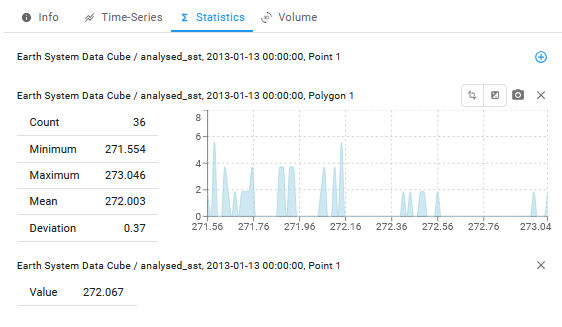
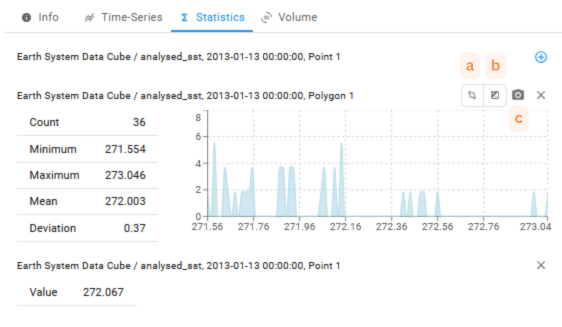
add time series features

diff --git a/docs/user_guide/analyse.md b/docs/user_guide/analyse.md
@@ -20,38 +20,40 @@ The Viewer provides the ability to extract information from variables at specifi
 
 ### Time-Series
 
-When adding a new place to the map, a time series will automatically be extracted and displayed by default. If the place already exists, simply select it and use the _graph_-icon next to the Variables drop-down menu. To remove a place from a graph, click the `-`-icon next to the place listed below the graph. The color of the places corresponds to the color of the graph in the time series. You can find the coordinates of the places visualized in the time series beneath the graphs.
+When adding a new place to the map, a time series will automatically be extracted and displayed by default. To display a time series for an already existing place, simply select it and use the _graph_-icon next to the variables drop-down menu.
+
+To remove a place from a graph, click the `-`-icon next to the place listed below the graph. The color of a place corresponds to the color in the time series graphs. The coordinates of the places visualized in the time series can be found beneath the graphs.
 
 ![Time Series Graph](../assets/images/viewer/analysis_timeseries_graphs.png)
 
 There are multiple options to explore the graph:
 
-- Adjust the time range to focus on a specific period of interest. This applies to time series of different variables within a dataset
-- Display data with points, lines, or bars. For polygons or circles, you can also add the standard deviation to the graph
-- Hover over the graph to view detailed information for specific time steps via a popup info box
-- Zoom into the graph freely by pressing the `Ctrl`-key
-- Set a fixed y-scale for the graph
-- Reset everything back to the full scale
-- Copy a snapshot a time series to clipboard
+- Adjust the time range to focus on a specific period of interest. This applies to time series of different variables within a dataset (a)
+- Reset everything back to the full scale (b)
+- Zoom into the graph freely by pressing the `Ctrl`-key (c)
+- Set a fixed y-scale for the graph (d)
+- Hover over the graph to view detailed information for specific time steps via a popup info box (e)
+- Display data with points, lines, or bars. For polygons or circles, you can also add the standard deviation to the graph (f)
+- Copy a snapshot a time series to clipboard (g)
 
 #### Export time series
 
-Export the time series using the option in the header at the top right. You have the option to export the time series, the geometries of the Places, or both.
+Export the time series using the option in the header at the top right. You have the option to export the time series, the geometries of the places, or both.
 
 ![Export](../assets/images/viewer/analysis_timeseries_export.png)
 
 ### Statistics
 
-Compute and display basic statistics for the currently selected variable, selected timestamp, and selected place. To obtain the statistics select a place and compute by using the $\Sigma$ -icon next to the Variables drop-down menu or use the `+`-icon under the Statistics Tab in the sidebar.
+Compute and display basic statistics for the currently selected variable, selected timestamp, and selected place. To obtain the statistics select a place and compute by using the $\Sigma$ -icon next to the variables drop-down menu or use the `+`-icon under the Statistics Tab in the sidebar.
 
 ![Statistics](../assets/images/viewer/analysis_statistics.png)
 
 If the place is an area:
 
 - Statistics include minimum, maximum, mean, standard deviation, and a histogram
-- Adjust the x-range of the histogram
-- Add the standard deviation to the histogram
-- Copy a snapshot of the statistics to clipboard
+- Adjust the x-range of the histogram (a)
+- Add the standard deviation to the histogram (b)
+- Copy a snapshot of the statistics to clipboard (c)
 
 For point places:
 
@@ -131,7 +133,7 @@ To **exit** Compare Mode: use the button on the left
 ![Player](../assets/images/viewer/analysis_player_light.png){: class="light-image" }
 ![Player](../assets/images/viewer/analysis_player_dark.png){: class="dark-image" }
 
-Use the showen features of the Viewer to navigate through the time steps of a variable. Select a specific date in the calendar view, move through the dataset time step by time step, jump to the beginning or end of the dataset, move the slider on the bar to select a time step, or start the player.
+Use the shown features of the Viewer to navigate through the time steps of a variable. Select a specific date in the calendar view, move through the dataset time step by time step, jump to the beginning or end of the dataset, move the slider on the bar to select a time step, or start the player.
 
 ### The Player
 
@@ -143,11 +145,11 @@ Use the player to auto-step through the variable of a dataset. The interval can 
 
 ## Places
 
-**Places** provide a spatial reference for extracting statistical values and time series data. They can be represented as either `points` or `polygons/circles`. Places are organized into **groups** which hold individial places.
+**Places** provide a spatial reference for extracting statistical values and time series data. They can be represented as either `points` or `polygons/circles` and are organized into **groups** which hold individial places.
 
 ![Places](../assets/images/viewer/analysis_places.png)
 
-The Viewer offers a variety of features (such as adding, removing, and styling) for working with Places to obtain statistical information. The following sections will explain the available features.
+The Viewer offers a variety of features for working with Places (such as adding, removing, and styling) to obtain statistical information. The following sections will explain the available features.
 
 ![Places](../assets/images/viewer/analysis_places_light.png){: class="light-image" }
 ![Places](../assets/images/viewer/analysis_places_dark.png){: class="dark-image" }
@@ -158,13 +160,13 @@ New Places can be **created** in the Viewer using the buttons in the header, wit
 
 ### Import
 
-Already created places can also be **imported**. The allowed formats are `text/csv`, `GeoJSON` and `WKT`. When importing a CSV table or a GeoJSON object, user can specify the time column name or time property. If given, time values are expected to be UTC and use ISO format.
+Externally created places can also be **imported**. The allowed formats are `text/csv`, `GeoJSON` and `WKT`. When importing a CSV table or a GeoJSON object, user can specify the time column name or time property. If given, time values are expected to be UTC and use ISO format.
 
 ![Import Places](../assets/images/viewer/analysis_import_places.png)
 
 ### Select
 
-Place groups and individual places can be **selected** through a drop-down menu. Additionally, single places can be chosen by clicking on them with the mouse when the corresponding function is enabled. Selected places are marked with a yellow ring around them.
+Place groups and individual places can be **selected** through a drop-down menu in the header. Additionally, individual places can be selected by clicking on them directly on the map when the corresponding function is enabled. Selected places are highlighted on the map with a yellow ring.
 
 ### Remove
 
@@ -180,6 +182,6 @@ Modify both the color and opacity of a place. The selected color will be reflect
 
 ### Export
 
-The geometry of Places created in the Viewer can be exported. This can be applied during [the export of time series](#export-time-series). To include the geometry information in the export, it must be explicitly selected.
+The geometry of Places created in the Viewer can be exported. This feature can be enabled during [the export of time series](#export-time-series). To include the geometry information in the export, it must be explicitly selected.
 
 ![Export](../assets/images/viewer/analysis_timeseries_export.png)

diff --git a/docs/features.md b/docs/features.md
@@ -651,6 +651,93 @@ A list of all the features that the viewer contains will be created here, in whi
 	</tbody>
 </table>
 
+## Metadata
+
+<table>
+	<thead>
+		<tr>
+			<th colspan="2">
+				<img
+					src="../assets/images/features/sidebar_metadata.png"
+					alt="Metadata" />
+			</th>
+		</tr>
+	</thead>
+	<tbody>
+		<tr>
+			<td><b>Feature Name</b></td>
+			<td>Metadata</td>
+		</tr>
+		<tr>
+			<td><b>Description</b></td>
+			<td>
+				Positioned in the sidebar, this is the first tab that displays metadata
+				for a dataset, selected variable, or selected place. The display of
+				metadata for each of these objects can be toggled using the buttons at
+				the top left. When a display is enabled, the button's background appears
+				highlighted in gray. Next to the displayed metadata information, three
+				additional buttons control the format of the metadata display. Depending
+				on the selected format, the active button's background is highlighted in
+				gray.
+			</td>
+		</tr>
+		<tr>
+			<td><b>Functionality</b></td>
+			<td>
+				Open the sidebar and navigate to the "Info" tab to view the metadata.
+				Enable the display for the object of interest: <strong>dataset, selected
+				variable, or selected place</strong>. If no place is currently selected, the most
+				recently selected place will be used. Then, choose the relevant metadata
+				format:
+				<ul>
+					<li>
+						<strong>Textual:</strong> A summary of properties in a
+						human-readable format.
+					</li>
+					<li>
+						<strong>Tabular:</strong> A complete list of attributes presented in
+						a table.
+					</li>
+					<li>
+						<strong>JSON:</strong> All attributes shown as machine-readable
+						JSON.
+					</li>
+				</ul>
+			</td>
+		</tr>
+		<tr>
+			<td><b>Aim</b></td>
+			<td>
+				To provide metadata information for the dataset, the selected variable,
+				or the selected place.
+			</td>
+		</tr>
+		<tr>
+			<td colspan="2">
+				Link to feature mentioned in
+				<a
+					href="/user_guide/getting_started/#metadata"
+					rel="noopener noreferrer"
+					>User Guide</a
+				>.
+			</td>
+		</tr>
+				<tr>
+			<td colspan="3" style="text-align: center;">
+				<img
+					src="../assets/images/features/sidebar_meta_textual.png"
+					alt="Metadata Textual Format" style="max-width: 30%" />
+				<img
+					src="../assets/images/features/sidebar_meta_tabular.png"
+					alt="Metadata Tabular Format" style="max-width: 30%" />
+				<img
+					src="../assets/images/features/sidebar_meta_json.png"
+					alt="Metadata JSON Format"  style="max-width: 30%"/>
+			</td>
+		</tr>
+    </tbody>
+</table>
+
 ## Time Series
 
 ### Add Time Series
@@ -703,6 +790,141 @@ A list of all the features that the viewer contains will be created here, in whi
 			</td>
 		</tr>
 	</tbody>
+</table>
+
+### Add Initial Time Series
+
+<table>
+	<thead>
+		<tr>
+			<th colspan="2">
+				<img
+					src="../assets/images/features/sidebar_initial_timeseries.png"
+					alt="Initial Time Series" />
+			</th>
+		</tr>
+	</thead>
+	<tbody>
+		<tr>
+			<td><b>Feature Name</b></td>
+			<td>Initial Time Series</td>
+		</tr>
+		<tr>
+			<td><b>Description</b></td>
+			<td>
+				The space under the "Time Series" tab in the sidebar varies depending on
+				whether a time series graph is present. If no time series graph exists:
+				A message indicates that no time series is currently displayed. A button
+				is also available, which becomes active (with blue font color) when a
+				variable and place are selected and it is possible to create a time
+				series.
+			</td>
+		</tr>
+		<tr>
+			<td><b>Functionality</b></td>
+			<td>
+				Open the sidebar and navigate to the "Time Series". Select a place and a
+				variable, then click the button to display a time series. Alternatively,
+				the time series can be created using
+				<a href="#add-time-series" rel="noopener noreferrer"
+					>the button in the header</a
+				>.
+			</td>
+		</tr>
+		<tr>
+			<td><b>Aim</b></td>
+			<td>
+				To create the initial time series graph for a selected place and
+				variable in the sidebar.
+			</td>
+		</tr>
+		<tr>
+			<td colspan="2">
+				Link to feature mentioned in
+				<a href="/user_guide/analyse/#time-series" rel="noopener noreferrer"
+					>User Guide</a
+				>.
+			</td>
+		</tr>
+	</tbody>
+</table>
+
+### Navigate Time Series Graphs
+
+<table>
+	<thead>
+		<tr>
+			<th colspan="2">
+				<img
+					src="../assets/images/features/sidebar_navigate_timeseries.png"
+					alt="Navigate Time Series Graphs" />
+			</th>
+		</tr>
+	</thead>
+	<tbody>
+		<tr>
+			<td><b>Feature Name</b></td>
+			<td>Navigate Time Series Graphs</td>
+		</tr>
+		<tr>
+			<td><b>Description</b></td>
+			<td>
+				A time series graph is displayed in the sidebar under the "Time Series"
+				tab. Time series extracted from the same variable are displayed in a
+				combined plot, allowing for easy comparison. A slider located at the top
+				of the section to controll the displayed time range. Additionally,
+				several features for navigating through the time series plot are
+				conveniently positioned at the top right of the graph. The places for
+				which time series have been extracted are listed below each plot,
+				displaying the place name and coordinates if they are points.
+			</td>
+		</tr>
+		<tr>
+			<td><b>Functionality</b></td>
+			<td>
+				Open the sidebar and navigate to the "Time Series".
+    			<ul>
+    				<li>
+    					Remove time series graphs of places by clicking the <code>-</code>-
+    					button located below the plot next to the respective place. (h)
+    				</li>
+    				<li>Adjust the time range to focus on a specific period of interest.
+						This applies to time series of different variables within a
+						dataset (a)</li>
+    				<li>Additionally, enable the buttons on the top right to:</li>
+					<ul>
+						<li>Reset everything back to the full scale (b)</li>
+						<li>Zoom into the graph freely by pressing the Ctrl-key (c)</li>
+						<li>Set a fixed y-scale for the graph (d)</li>
+						<li>
+							Hover over the graph to view detailed information for specific
+							time steps via a popup info box (e)
+						</li>
+						<li>
+							Display data with points, lines, or bars. For polygons or circles,
+							you can also add the standard deviation to the graph (f)
+						</li>
+						<li>Copy a snapshot a time series to clipboard (g)</li>
+					</ul>
+    			</ul>
+    		</td>
+    	</tr>
+    	<tr>
+    		<td><b>Aim</b></td>
+    		<td>
+    			To provide a range of functions for investigating time series data.
+    		</td>
+    	</tr>
+    	<tr>
+    		<td colspan="2">
+    			Link to feature mentioned in
+    			<a href="/user_guide/analyse/#time-series" rel="noopener noreferrer"
+    				>User Guide</a
+    			>.
+    		</td>
+    	</tr>
+    </tbody>
+
 </table>
 
 ## Statistics
